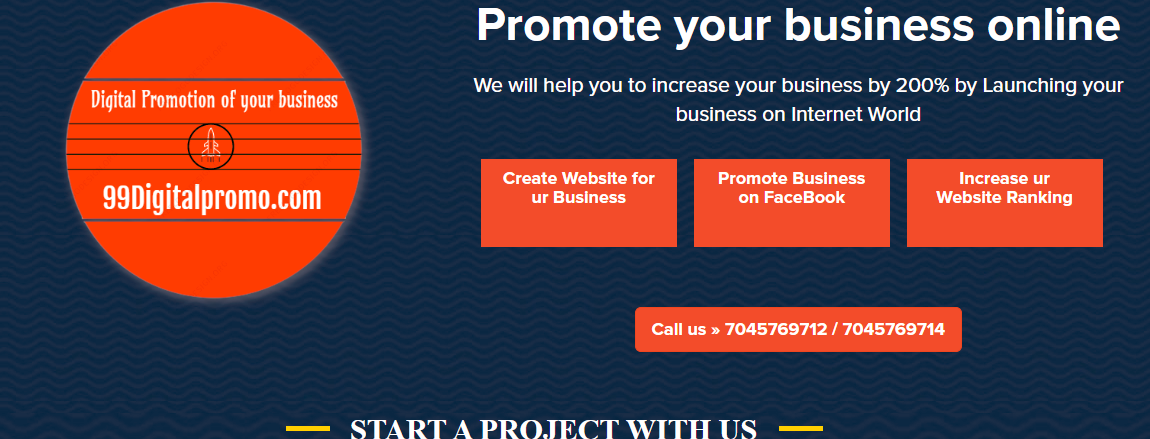
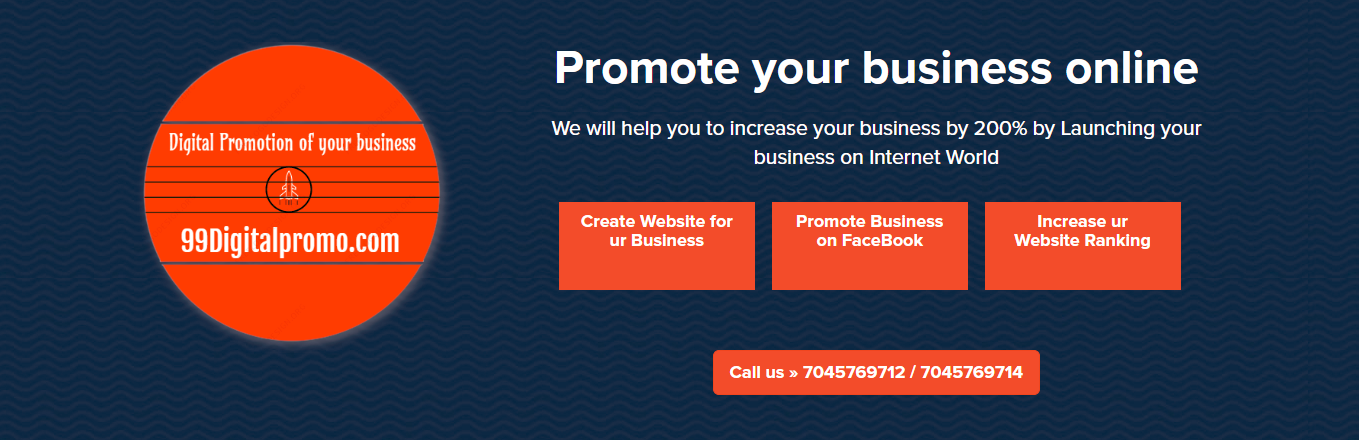
css changes and cover page changes

diff --git a/index.html b/index.html
@@ -77,12 +77,12 @@
 		</a>
 	</div>
 
-	<div class="social-icon mobile-display">
+	<div class="social-icon desktop-display">
 		<a target="_blank" href="https://www.facebook.com/99digitalpromo/" class="facebook"><i class="fa fa-facebook"></i></a>
-		<a href="#" class="twitter"><i class="fa fa-twitter"></i></a>
-		<a href="#" class="google"><i class="fa fa-google"></i></a>
-		<a href="#" class="linkedin"><i class="fa fa-linkedin"></i></a>
-		<a href="#" class="phone"><i class="fa fa-phone"></i></a>
+		<a target="_blank" href="https://twitter.com/luckyruby2010" class="twitter"><i class="fa fa-twitter"></i></a>
+		<a target="_blank" href="https://plus.google.com/u/0/113251283429668094962" class="google"><i class="fa fa-google"></i></a>
+		<a target="_blank" href="https://www.linkedin.com/in/ruby-kumari-398117157/" class="linkedin"><i class="fa fa-linkedin"></i></a>
+		<!--<a href="#" class="phone"><i class="fa fa-phone"></i></a>-->
 	</div>
 
 	<!-- HERO
@@ -121,7 +121,7 @@
 							<!-- end price -->
 						</div>
 						<!-- price-timeline -->
-						<p><a class="btn btn-lg btn-danger" href="contact.html" role="button">Call us &raquo; 7045769712 / 7045769714</a></p>
+						<p><a class="btn btn-lg btn-danger" role="button" href="tel:+918689999954">Call us &raquo; 7045769712 / 7045769714</a></p>
 					</div>
 					<!-- col -->
 
@@ -440,7 +440,13 @@
 	</section>
 	<!-- signup -->
 
-
+	<div class="mobile-social-icon mobile-display">
+		<a target="_blank" href="https://www.facebook.com/99digitalpromo/" class="facebook"><i class="fa fa-facebook"></i></a>
+		<a target="_blank" href="https://twitter.com/luckyruby2010" class="twitter"><i class="fa fa-twitter"></i></a>
+		<a target="_blank" href="https://plus.google.com/u/0/113251283429668094962" class="google"><i class="fa fa-google"></i></a>
+		<a target="_blank" href="https://www.linkedin.com/in/ruby-kumari-398117157/" class="linkedin"><i class="fa fa-linkedin"></i></a>
+		<a class="phone" href="tel:+918689999954"><i class="fa fa-phone"></i></a>
+	</div>
 	<!-- FOOTER
 	================================================== -->
 	<footer id="footer">

diff --git a/assets/css/custom.css b/assets/css/custom.css
@@ -843,6 +843,23 @@ footer li.signup-link a:hover {
     background-color: #000;
 }
 
+.mobile-social-icon {
+	position: relative;
+}
+
+.mobile-social-icon a {
+  display: inline-block;
+  text-align: center;
+  padding: 16px;
+  transition: all 0.3s ease;
+  color: white;
+  font-size: 20px;
+}
+
+.mobile-social-icon a:hover {
+    background-color: #000;
+}
+
 .facebook {
   background: #3B5998;
   color: white;
@@ -987,12 +1004,20 @@ footer li.signup-link a:hover {
 .font18{
 	font-size: 18px;
 }
-
+.desktop-display{
+display: block;
+}
+.mobile-display{
+	display: none;
+}
 /*mobile media query*/
 
 @media screen and (max-width : 568px) {
-.mobile-display{
+.desktop-display{
 	display:none
+}
+.mobile-display{
+	display: grid;
 }
 .pl23{
 	padding-left: 0px;
